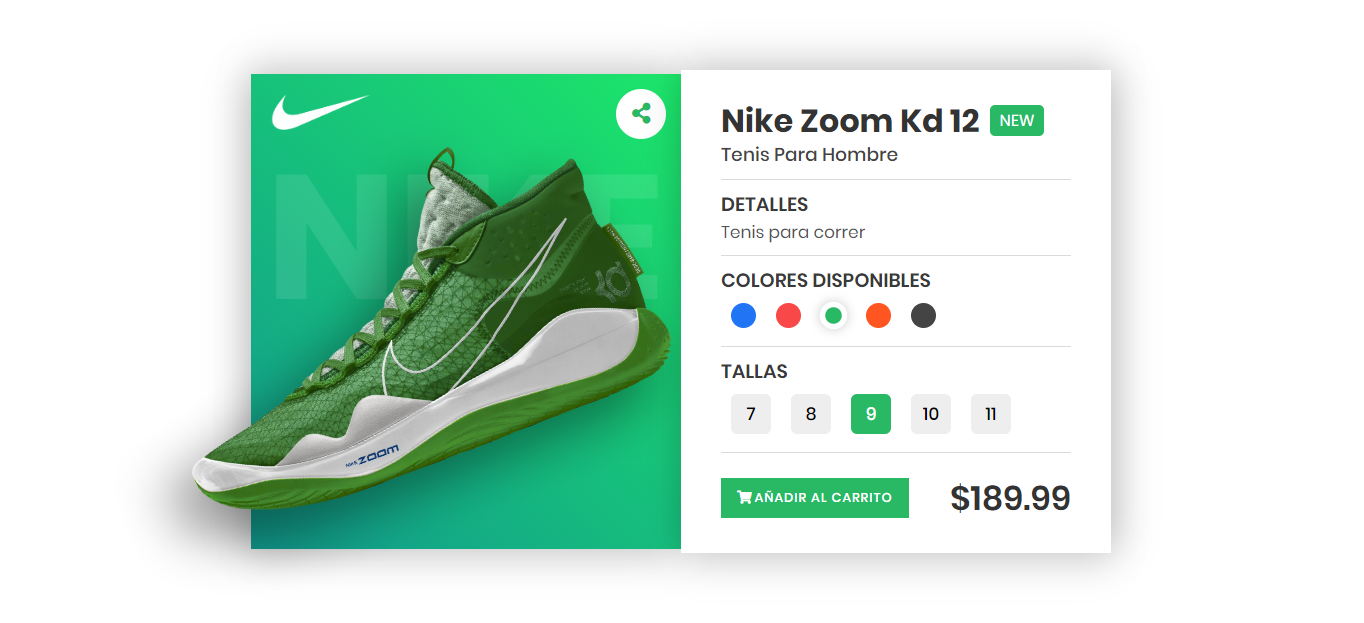
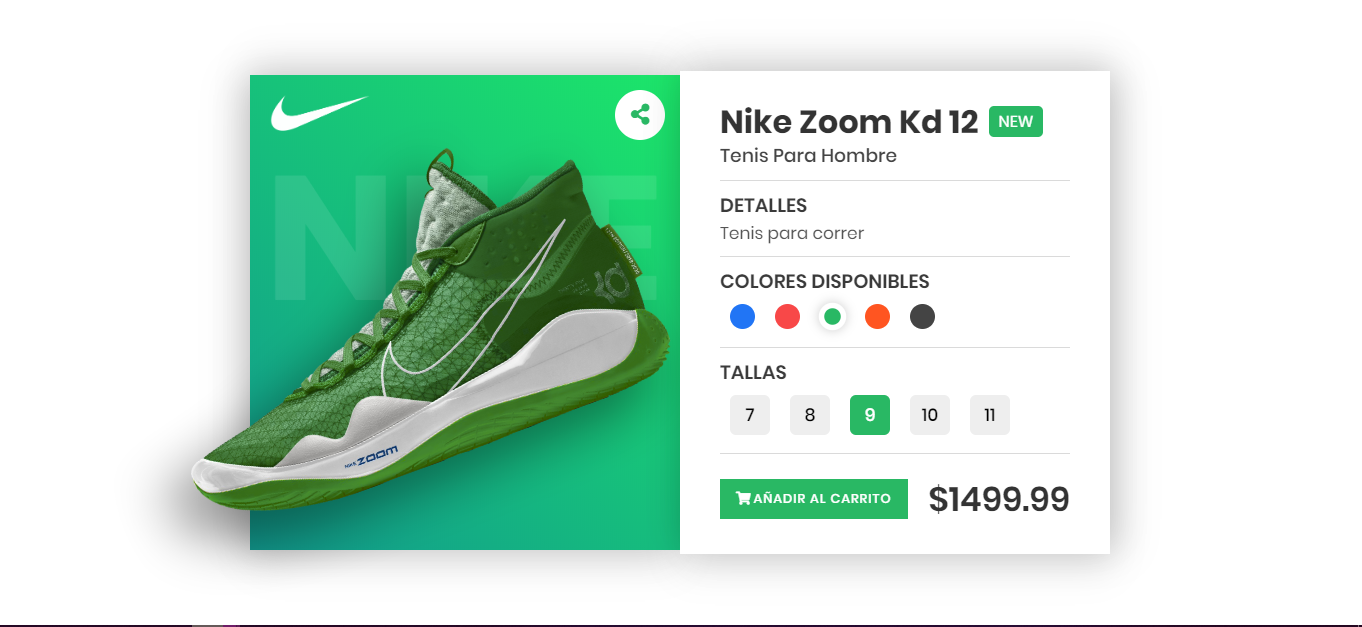
cambios

diff --git a/Index.html b/Index.html
@@ -66,7 +66,7 @@
                     <a href="#" class="buy"><i class="fas fa-shopping-cart"></i>Añadir al carrito</a>
                     <div class="price">
                         
-                        <h1>$189.99</h1>
+                        <h1>$1499.99</h1>
                     </div>
                 </div>
             </div>
